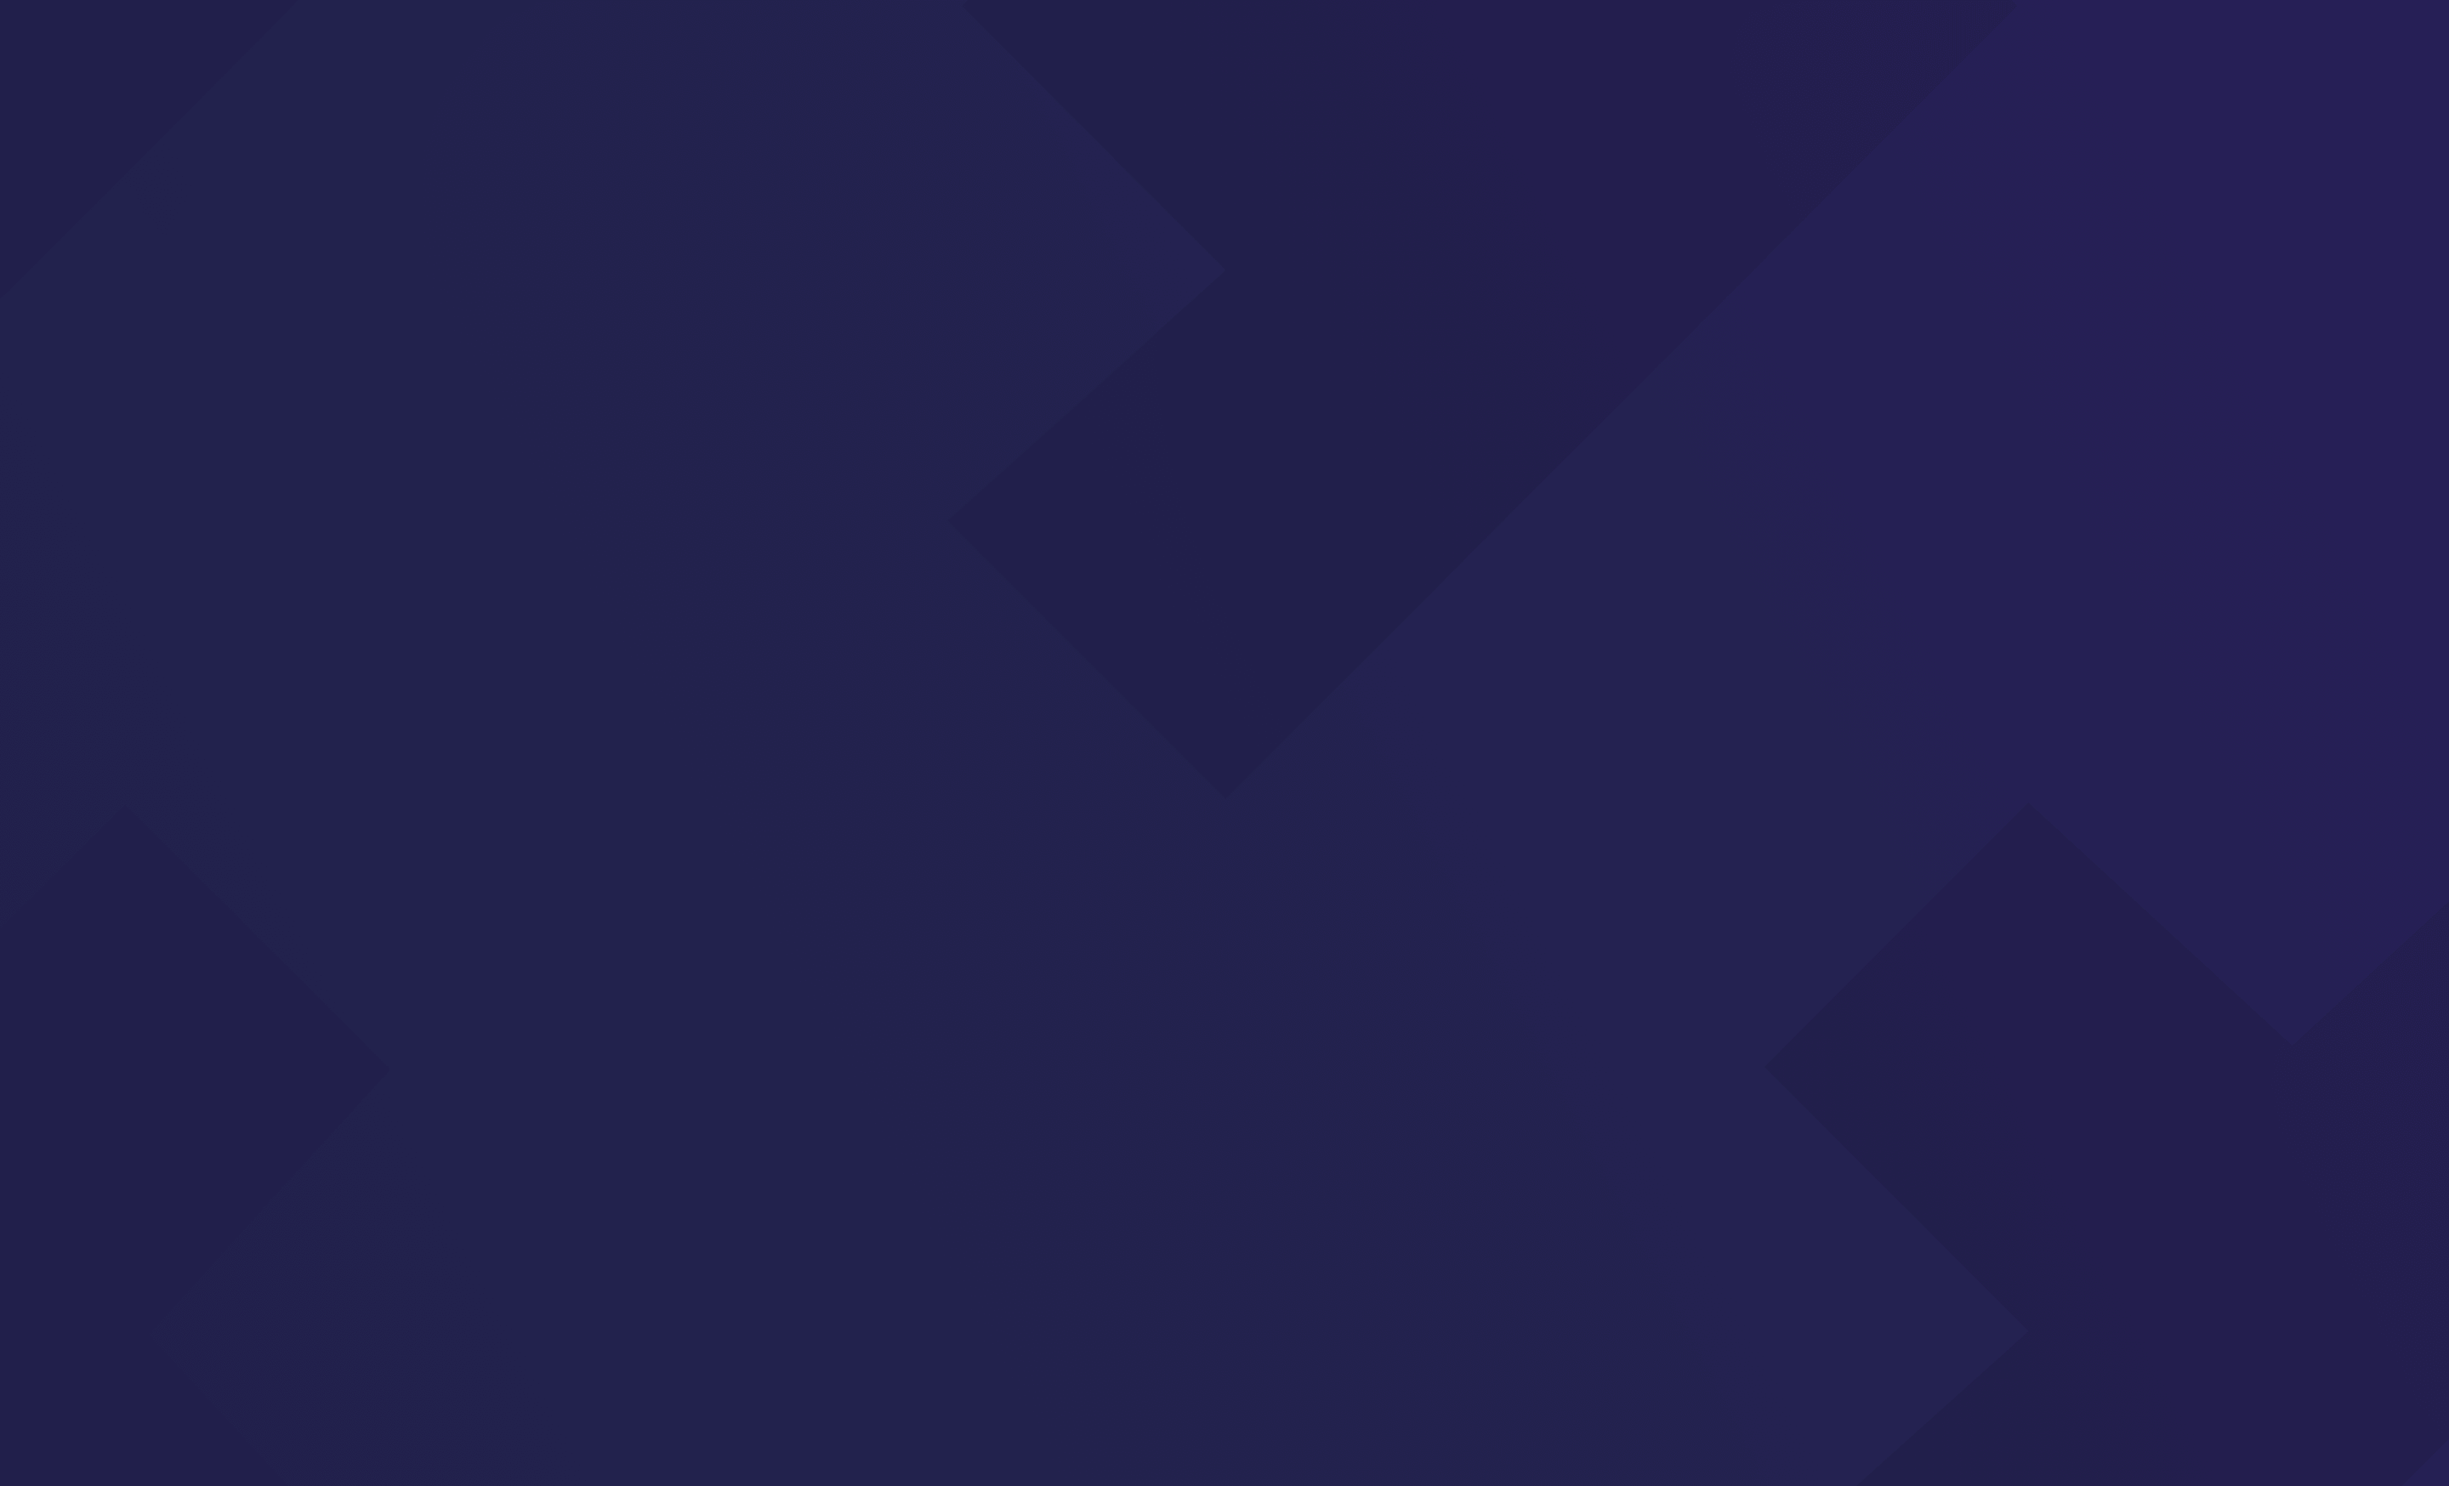
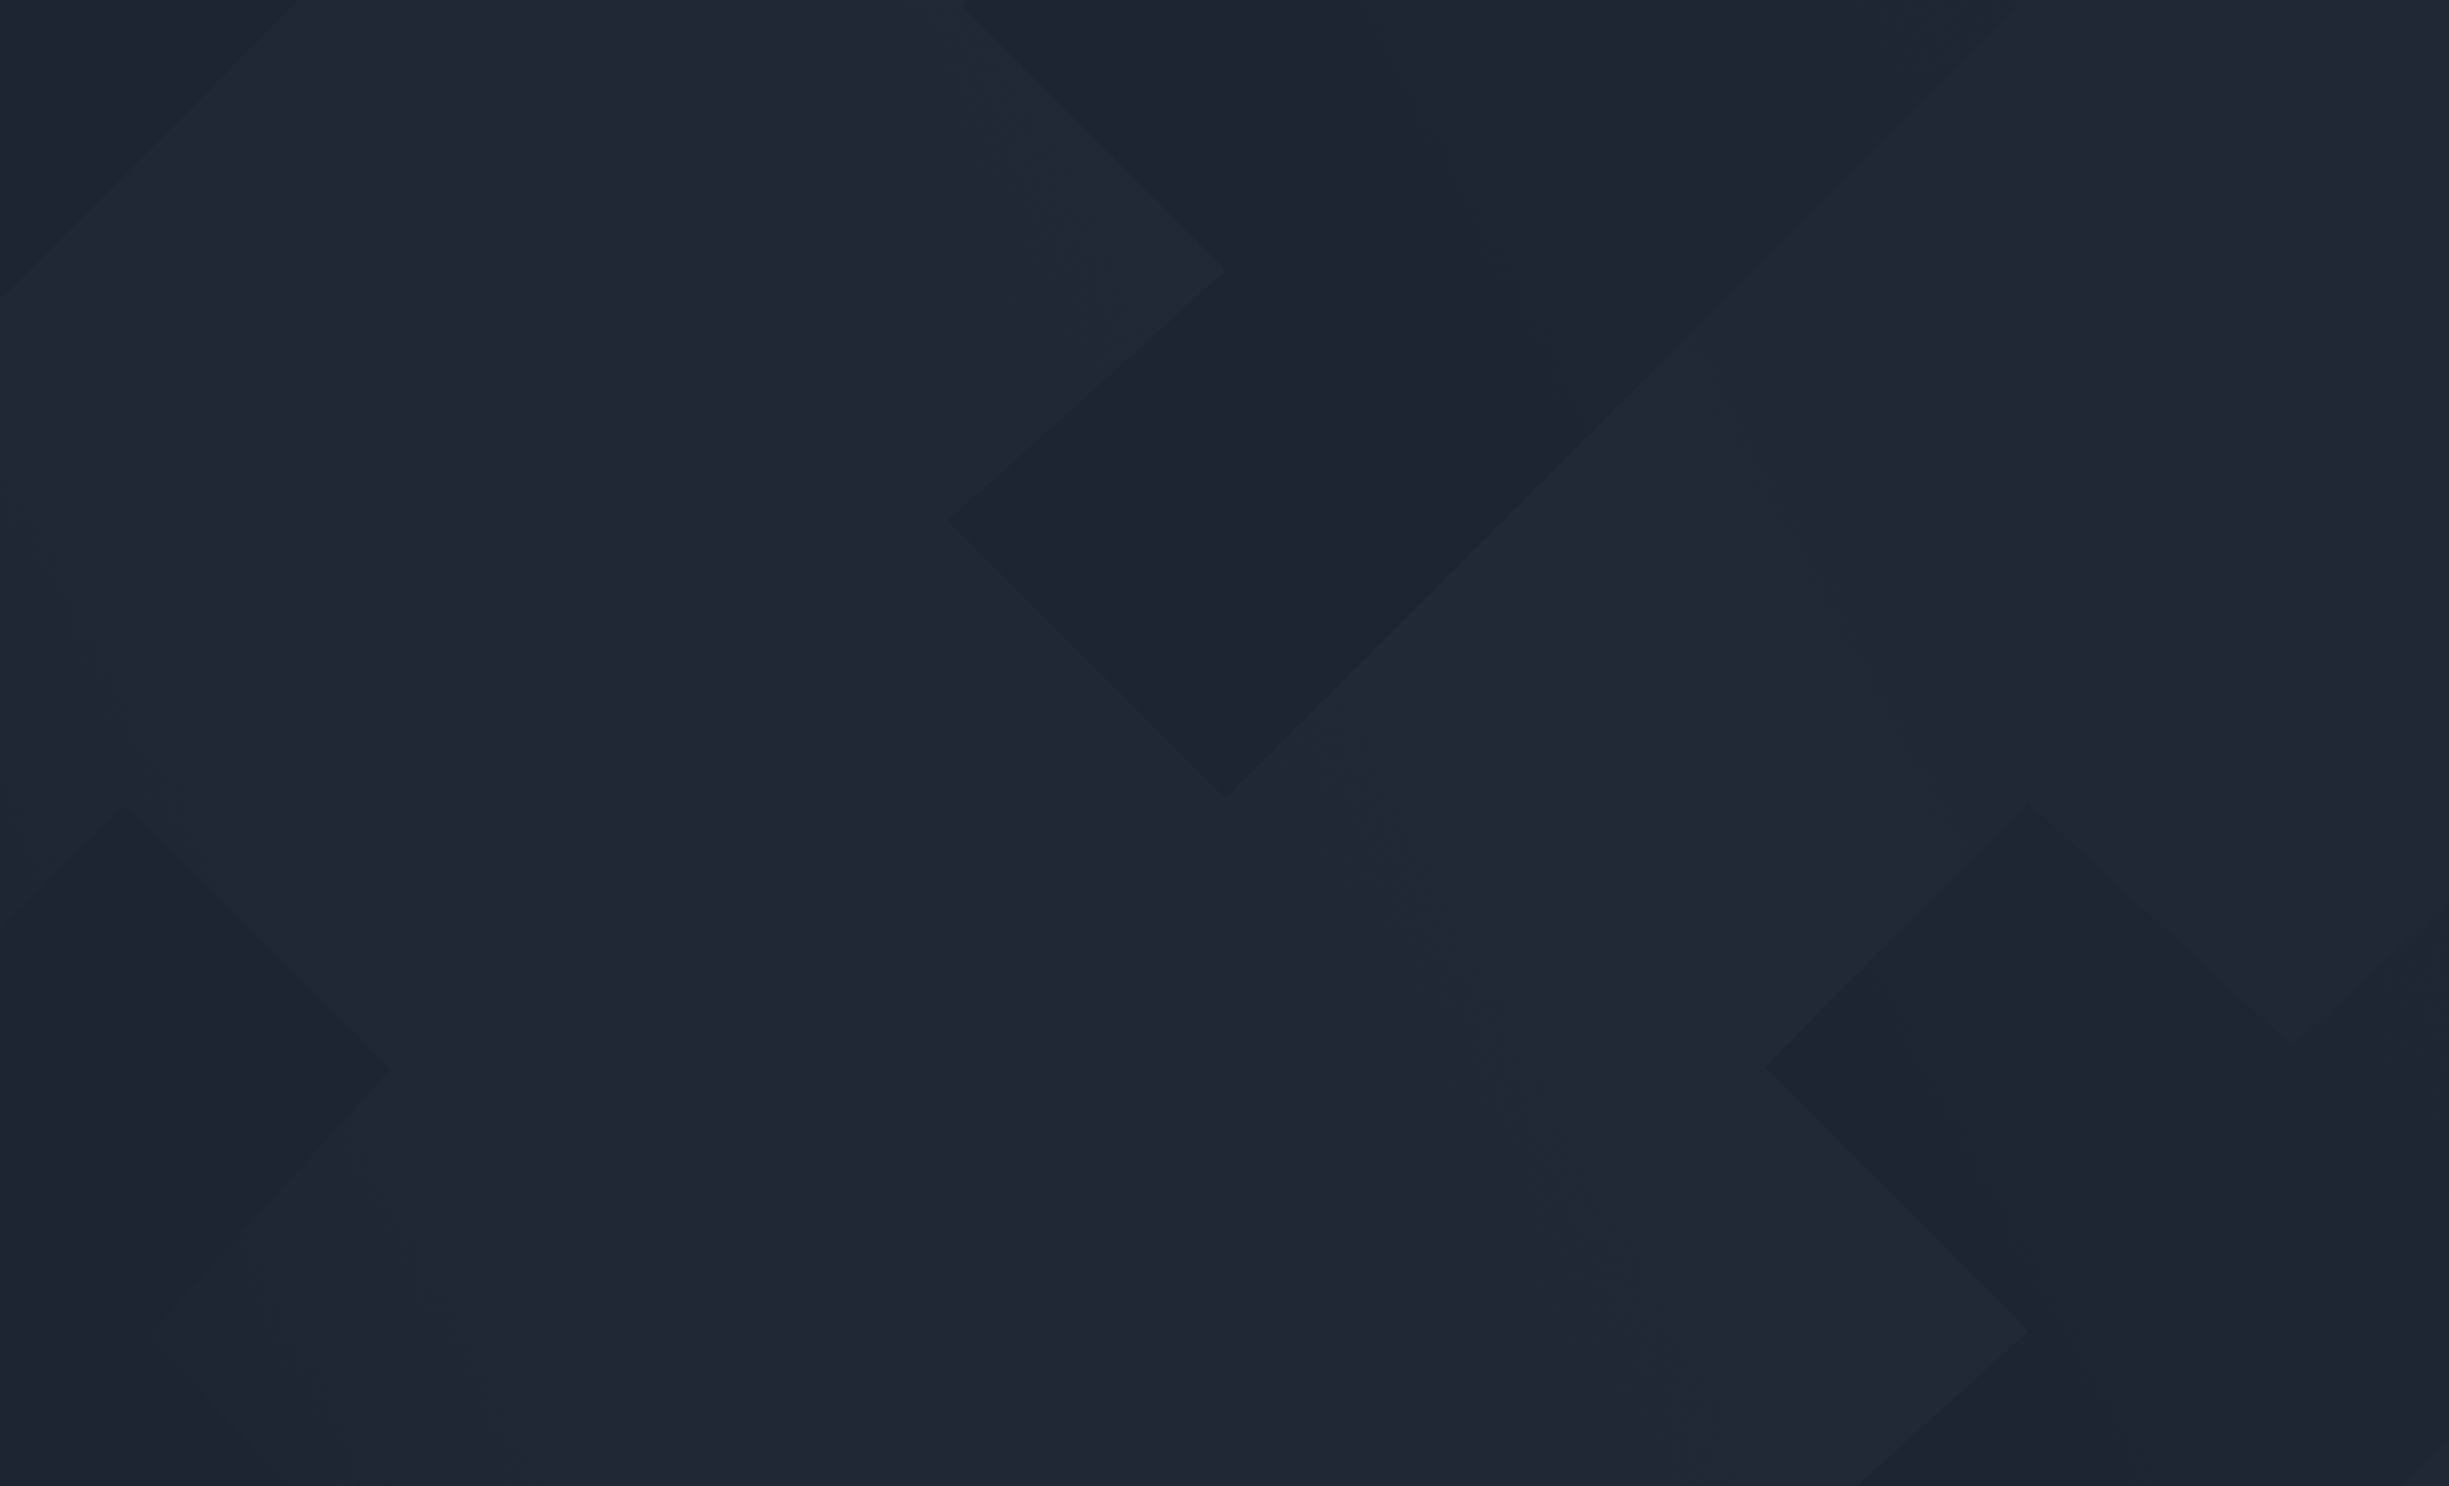
update new styles

diff --git a/src/App.css b/src/App.css
@@ -5,6 +5,10 @@ html {
   font-style: normal;
 }
 
+a {
+  color: #69E27E;
+}
+
 .App nav {
   position: absolute;
   padding-top: 15px;
@@ -103,25 +107,23 @@ html {
 }
 
 #details #neon-logo {
-  width: 100%;
-  max-width: 210px;
+  max-width: 330px;
+  max-height: 90px;
   margin-bottom: 15px;
-  min-height: 40px;
-  max-height: 60px;
 }
 
-.landing-page-container #gold {
+.landing-page-container #white {
   font-weight: 900;
   display: inline;
   margin: 0;
-  color: #ffd84a;
+  color:#ffffff;
   letter-spacing: 1px;
   margin: 0;
   font-size: 25px;
   font-weight: 400;
 }
 
-#gold::after {
+#white::after {
   content: " ";
   white-space: pre;
 }
@@ -131,7 +133,7 @@ html {
   margin: 0;
   font-size: 25px;
   font-weight: 300;
-  color: white;
+  color: #5C677F;
 }
 
 .landing-page-container #download-options-container {
@@ -171,13 +173,11 @@ html {
   display: flex;
   justify-content: center;
   align-items: center;
-  border: solid thin #4492fd;
   border-radius: 3px;
   color: white;
-  background-color: #313164;
+  background-color: #5C677F;
   height: 40px;
   width: 140px;
-  box-shadow: 0 4px 10px #181847;
 }
 
 #download-options-container #option {
@@ -189,7 +189,7 @@ html {
 }
 
 #download-options-container #display {
-  color: #ffd84a;
+  color: #ffffff;
   font-size: 18px;
   font-weight: 400;
 }
@@ -201,8 +201,7 @@ html {
 
 #download-button:hover {
   transition: all 200ms ease-in;
-  border: solid thin #313263;
-  background-color: #4492fd;
+  background-color: #69E27E;
 }
 
 #download-button img {
@@ -219,8 +218,8 @@ footer {
   font-weight: 100;
   color: white;
   font-size: 14px;
-  background-color: #12112d;
-  border-top: solid #4492fd;
+  background-color: #171B24;
+  border-top: solid #5C6A84;
 }
 
 footer #footer-content {
@@ -241,18 +240,23 @@ footer #footer-content {
 footer #donation {
   font-size: 17px;
   font-weight: 400;
-  color: #ffd84a;
+  color: #ffffff;
 }
 
 footer #donation #modal-link {
   display: flex;
   align-items: center;
   height: 25px;
+  padding-left: 18px;
+}
+
+footer #donation #modal-link> a {
+  text-decoration: none;
 }
 
 footer #donation #address {
   margin-top: 14px;
-  color: white;
+  color: #5C677F;
   font-weight: 200;
   margin-top: 5px;
   margin-bottom: 10px;
@@ -261,7 +265,7 @@ footer #donation #address {
 footer #social {
   font-size: 17px;
   font-weight: 400;
-  color: #ffd84a;
+  color:#ffffff;
 }
 
 footer #social #placeholder {
@@ -287,6 +291,7 @@ footer #social-links #link {
   display: flex;
   align-items: center;
   padding-right: 25px;
+  text-decoration: none;
 }
 
 footer #social-links img {
@@ -396,6 +401,7 @@ footer #social #description {
   }
   footer #modal-link {
     justify-content: center;
+    color: #69E27E;
   }
   footer #placeholder {
     display: none;

diff --git a/src/components/landing-page/LandingPage.js b/src/components/landing-page/LandingPage.js
@@ -1,7 +1,7 @@
 import React from "react";
 import DownloadOptions from "./DownloadOptions";
 import { downloadOptions } from "../../config.js";
-import logo from "../../images/NEON-logo.svg";
+import logo from "../../images/Neon_Logo_Dark.png";
 import screenshot from "../../images/screenshot.png";
 // import coz from "../../images/coz.svg";
 
@@ -9,9 +9,9 @@ const LandingPage = props => (
   <div className="landing-page-container">
     <div id="details-container">
       <div id="details">
-        <img id="neon-logo" src={logo} />
+        <img id="neon-logo" src={logo} alt="neon-logo"/>
         <div id="description">
-          An open source <span id="gold"> cross-platform light wallet</span>
+          An open source <span id="white"> cross-platform light wallet</span>
           for the NEO blockchain available on Windows, Mac OS, and Linux.
         </div>
         <DownloadOptions options={props.downloadOptions} />

diff --git a/src/components/footer/Footer.js b/src/components/footer/Footer.js
@@ -31,8 +31,7 @@ const Donations = ({ handleModalClick }) =>
             event.preventDefault() || handleModalClick(e.modalId)
           }
         >
-          <i className="fa fa-external-link-square" aria-hidden="true" /> Launch
-          QR Code
+          Launch QR Code
         </a>
       </div>
     </div>
